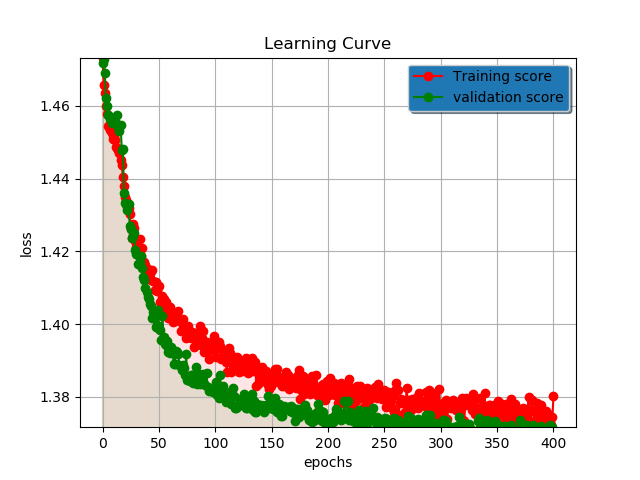
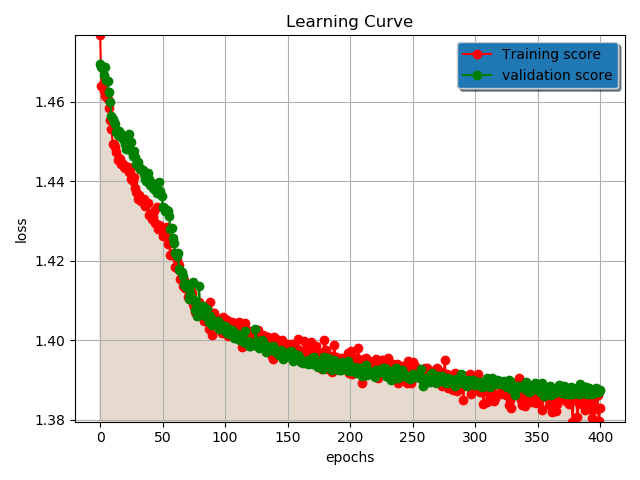
new curves

diff --git a/training/training_model.py b/training/training_model.py
@@ -22,12 +22,12 @@ test_scores = []
 eval_acc = LambdaCallback(on_epoch_end=lambda batch, logs: print(model.evaluate(x_test, y_test)[1]))
 train_loss = LambdaCallback(on_epoch_end=lambda batch, logs: train_scores.append(logs['loss']))
 test_loss = LambdaCallback(on_epoch_end=lambda batch, logs: test_scores.append(logs['val_loss']))
-wrapper = KerasClassifier(build_fn=create_network, epochs=epochs,batch_size=32,verbose=2)
-model.fit(x_train, y_train, validation_split=0.2, epochs=epochs, batch_size=32, verbose=1, class_weight=None, callbacks=[train_loss,test_loss])
+#wrapper = KerasClassifier(build_fn=create_network, epochs=epochs,batch_size=32,verbose=2)
+model.fit(x_train, y_train, validation_split=0.2, epochs=epochs, batch_size=32, verbose=1, class_weight='balanced', callbacks=[train_loss,test_loss])
 # Evaluate
-val_scores = cross_val_score(wrapper, x_train, y_train, cv=5)
+#val_scores = cross_val_score(wrapper, x_train, y_train, cv=5)
 print("testing accuracy:",model.evaluate(x_test, y_test)[1])
-print("cv accuracy:",np.mean(val_scores))
+#print("cv accuracy:",np.mean(val_scores))
 
 # plot
 plt.title("Learning Curve")

diff --git a/training/create_neural_network.py b/training/create_neural_network.py
@@ -3,7 +3,7 @@ from keras.layers import Dense
 from keras.layers import Dropout
 from keras.optimizers import Adam
 from get_data_2 import *
-def create_network(lr=0.0066,num_Nodes=18, dropout=0.3,final_activation='sigmoid', loss='categorical_crossentropy',n=n):
+def create_network(lr=0.0033,num_Nodes=18, dropout=0.3,final_activation='sigmoid', loss='categorical_crossentropy',n=n):
     model = Sequential()
     model.add(Dense(num_Nodes, input_dim=n, activation='sigmoid', kernel_initializer='random_uniform'))
     model.add(Dropout(dropout))
